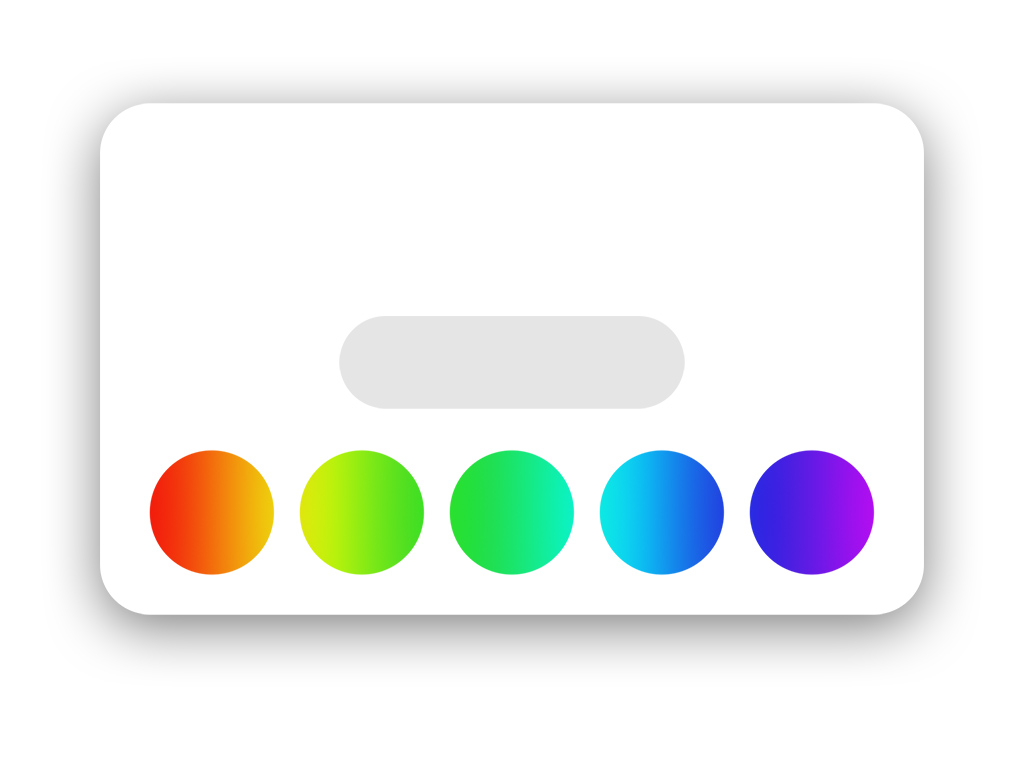
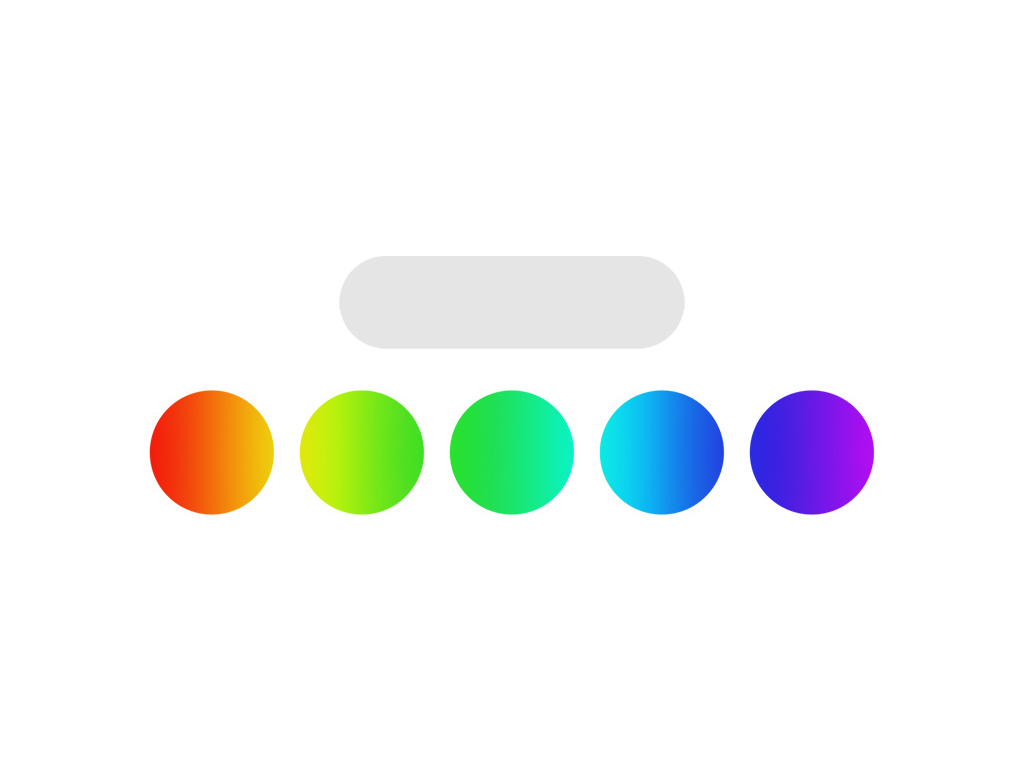
redesing parental gate to fit in iphones

Changed region(s): [[0.0625, 0.0938, 0.9375, 0.875]]

diff --git a/lib/plugins/parental.js b/lib/plugins/parental.js
@@ -18,11 +18,11 @@ ig.module(
 			this.savedData = new Image();
 			
 			this.buttons = new ig.TouchButtonCollection([
-					new ig.TouchButton('wrong', {left:150, top: 453}, 120, 120),
-					new ig.TouchButton('wrong', {left:300, top: 453}, 120, 120),
-					new ig.TouchButton('wrong', {left:450, top: 453}, 120, 120),
-					new ig.TouchButton('wrong', {left:600, top: 453}, 120, 120),
-					new ig.TouchButton('wrong', {left:750, top: 453}, 120, 120),
+					new ig.TouchButton('wrong', {left:150, top: 393}, 120, 120),
+					new ig.TouchButton('wrong', {left:300, top: 393}, 120, 120),
+					new ig.TouchButton('wrong', {left:450, top: 393}, 120, 120),
+					new ig.TouchButton('wrong', {left:600, top: 393}, 120, 120),
+					new ig.TouchButton('wrong', {left:750, top: 393}, 120, 120),
 				]);
 			this.buttons.align();
 		},
@@ -49,11 +49,11 @@ ig.module(
 				ig.system.context.fillStyle="#000000";
 				ig.system.context.textAlign = 'center';
 				ig.system.context.font = '24pt Garamond-Bold';
-				this.print(i18n.t("ParentalGate.titulo"), 512, 160,30);
+				this.print(i18n.t("ParentalGate.titulo"), 512, 100,30);
 				ig.system.context.font = '19pt Garamond-Bold';
-				this.print(i18n.t("ParentalGate.subtitulo"), 512, 240,30);
+				this.print(i18n.t("ParentalGate.subtitulo"), 512, 180,30);
 				ig.system.context.font = '30pt Garamond-Bold';
-				this.print(this.question, 512, 370);
+				this.print(this.question, 512, 310);
 				ig.system.context.fillStyle="#FFFFFF";
 				var i=0;
 				this.buttons.buttons.forEach(function(button){
